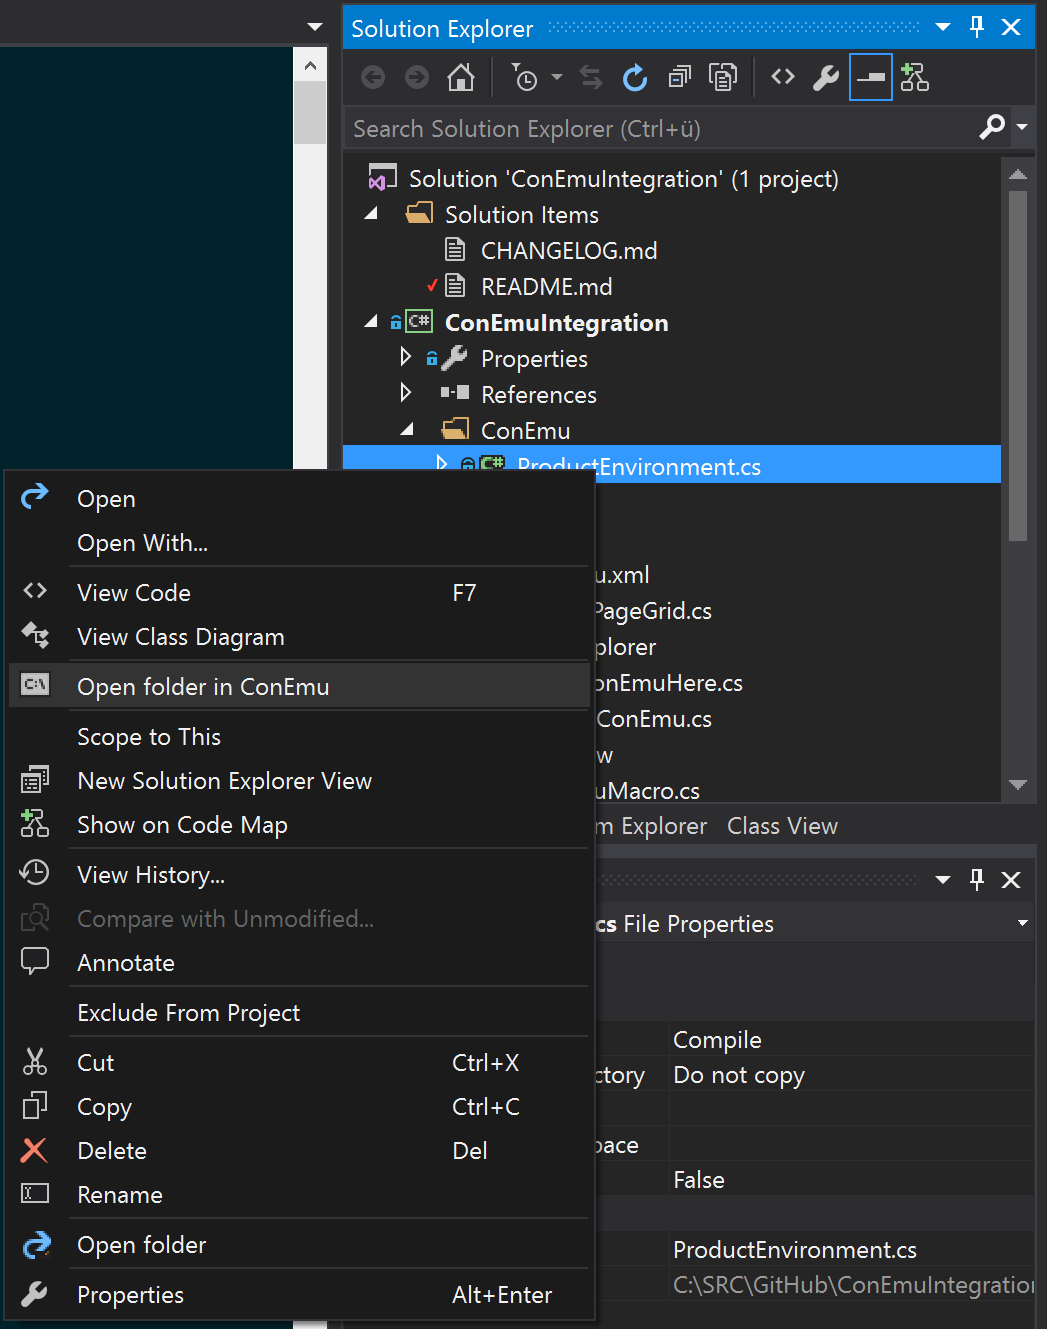
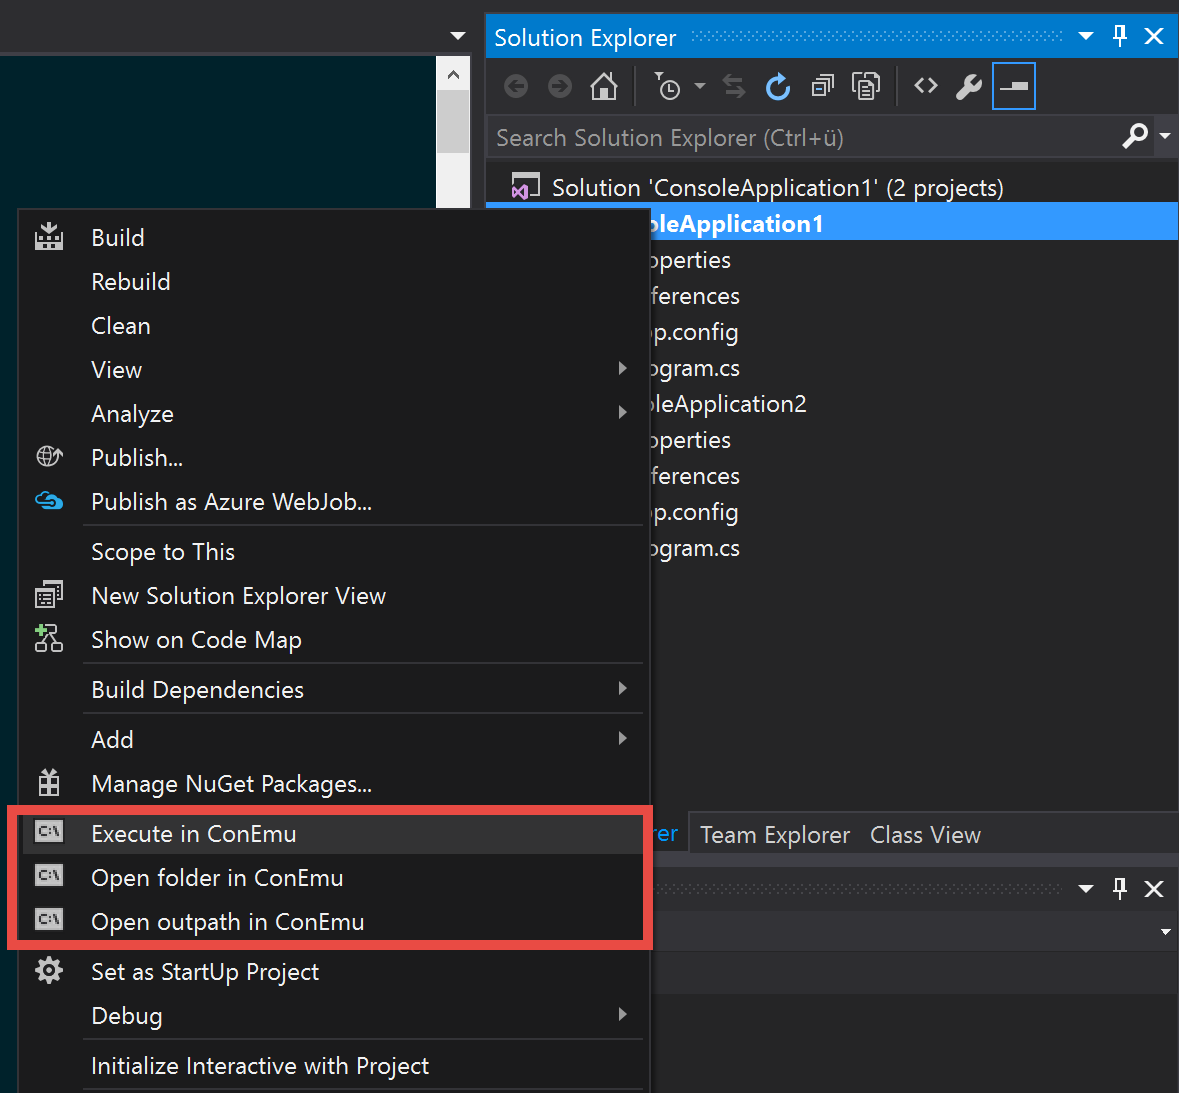
Updated the readme with the new extension features

diff --git a/ConEmuIntegration/Settings/OptionPageGrid.cs b/ConEmuIntegration/Settings/OptionPageGrid.cs
@@ -20,12 +20,12 @@ namespace ConEmuIntegration.Settings
 {
     internal sealed class OptionPageGrid : DialogPage
     {
-        [Category("ConEmu")]
+        [Category("ConEmu Integration")]
         [DisplayName("Executable")]
         [Description("Path to the ConEmu executable (ConEmu[64].exe) file")]
         public string ConEmuPath { get; set; }
 
-        [Category("ConEmu")]
+        [Category("ConEmu Integration")]
         [DisplayName("Library")]
         [Description("Path to the ConEmu library (ConEmuCD[64].dll) file")]
         public string ConEmuLibraryPath { get; set; }

diff --git a/ConEmuIntegration/ConEmuWindowPackage.cs b/ConEmuIntegration/ConEmuWindowPackage.cs
@@ -27,7 +27,7 @@ namespace ConEmuIntegration
     [ProvideMenuResource("Menus.ctmenu", 1)]
     [ProvideToolWindow(typeof(ConEmuWindow))]
     [Guid(ConEmuWindowPackage.PackageGuidString)]
-    [ProvideOptionPage(typeof(OptionPageGrid), "ConEmu", "Paths", 0, 0, true)]
+    [ProvideOptionPage(typeof(OptionPageGrid), "ConEmu Integration", "Paths", 0, 0, true)]
     public sealed class ConEmuWindowPackage : Package
     {
         /// <summary>

diff --git a/README.md b/README.md
@@ -8,14 +8,14 @@ Using the console emulator ConEmu within Visual Studio.<br />
 Download this extension from the <a href="https://visualstudiogallery.msdn.microsoft.com/[GuidFromGallery]">VS Gallery</a>
 
 This project integrates the console emulator ConEmu in Visual Studio.<br />
-ConEmu is not part of this extension and needs to be installed seperatly.<br />
+ConEmu is not part of this extension and needs to be downloaded / installed seperatly.<br />
 See the ConEmu section for further detail about the console emulator.
 
 See the [changelog](CHANGELOG.md) for changes and roadmap.
 
 ## ConEmu
 
-ConEmu-Maximus5 is a Windows console emulator which is not part of this Visual Studio extension.
+ConEmu is a Windows console emulator which is not part of this Visual Studio extension.
 Please download and install it seperatly. You can find them using the links below.
 
 <img src="https://avatars0.githubusercontent.com/u/1222388?v=3&s=460" width="50" />
@@ -28,6 +28,9 @@ ConEmu integration: <a href="https://github.com/Maximus5/conemu-inside">GitHub</
 - Integration of ConEmu as ToolWindow to Visual Studio
 - ConEmu Tool Window can be opens from "View" menu
 - Integration of ConEmu in Solution Explorer
+    - Open the containing folder of the item in conemu
+    - Open the output path of the project in conemu
+    - Execute the from the project created binary using conemu
 
 ### Integration of ConEmu as ToolWindow to Visual Studio
 This extension integrates ConEmu as tool window in Visual Studio.
@@ -39,7 +42,22 @@ The ConEmu tool window can be open from the view menu of Visual Studio
 
 ### Integration of ConEmu in Solution Explorer
 The current opened folder in ConEmu can be changed directly from solution explorer.
+The output file of your project can be also executed in conemu.
 <img src="Images/ConEmuSolutionExplorer.png" width="400" />
+
+## Settings
+Please download / install the ConEmu seperatly. It isn't part of this extension.
+After you have downloaded / installed ConEmu please set the paths in the settings of this extension.
+Therefor open the settings of Visual Studio and navigate to the "ConEmu Integration" section.
+
+Please set the following two paths in this section of the configuration.
+The path to the conemu executable file:
+![Settings Con Emu Exe](Images/SettingsConEmuExe.png)
+E.g.: C:\Users\David Roller\Downloads\ConEmuPack.160504\ConEmu.exe
+
+The path to the conemu CD library file:
+![Settings Con Emu C D Dll](Images/SettingsConEmuCDDll.png)
+E.g.: C:\Users\David Roller\Downloads\ConEmuPack.160504\ConEmu\ConEmuCD.dll
 
 ## Contribute
 Check out the [contribution guidelines](CONTRIBUTING.md)

diff --git a/CHANGELOG.md b/CHANGELOG.md
@@ -14,3 +14,9 @@ on the official Visual Studio extension gallery.
 - [x] Integration of ConEmu as ToolWindow to Visual Studio
 - [x] ConEmu Tool Window can be opens from "View" menu
 - [x] Integration of ConEmu in Solution Explorer
+
+## 1.0.0.1
+
+**2016-05-11**
+
+- [x] Execute the project output file within conemu
